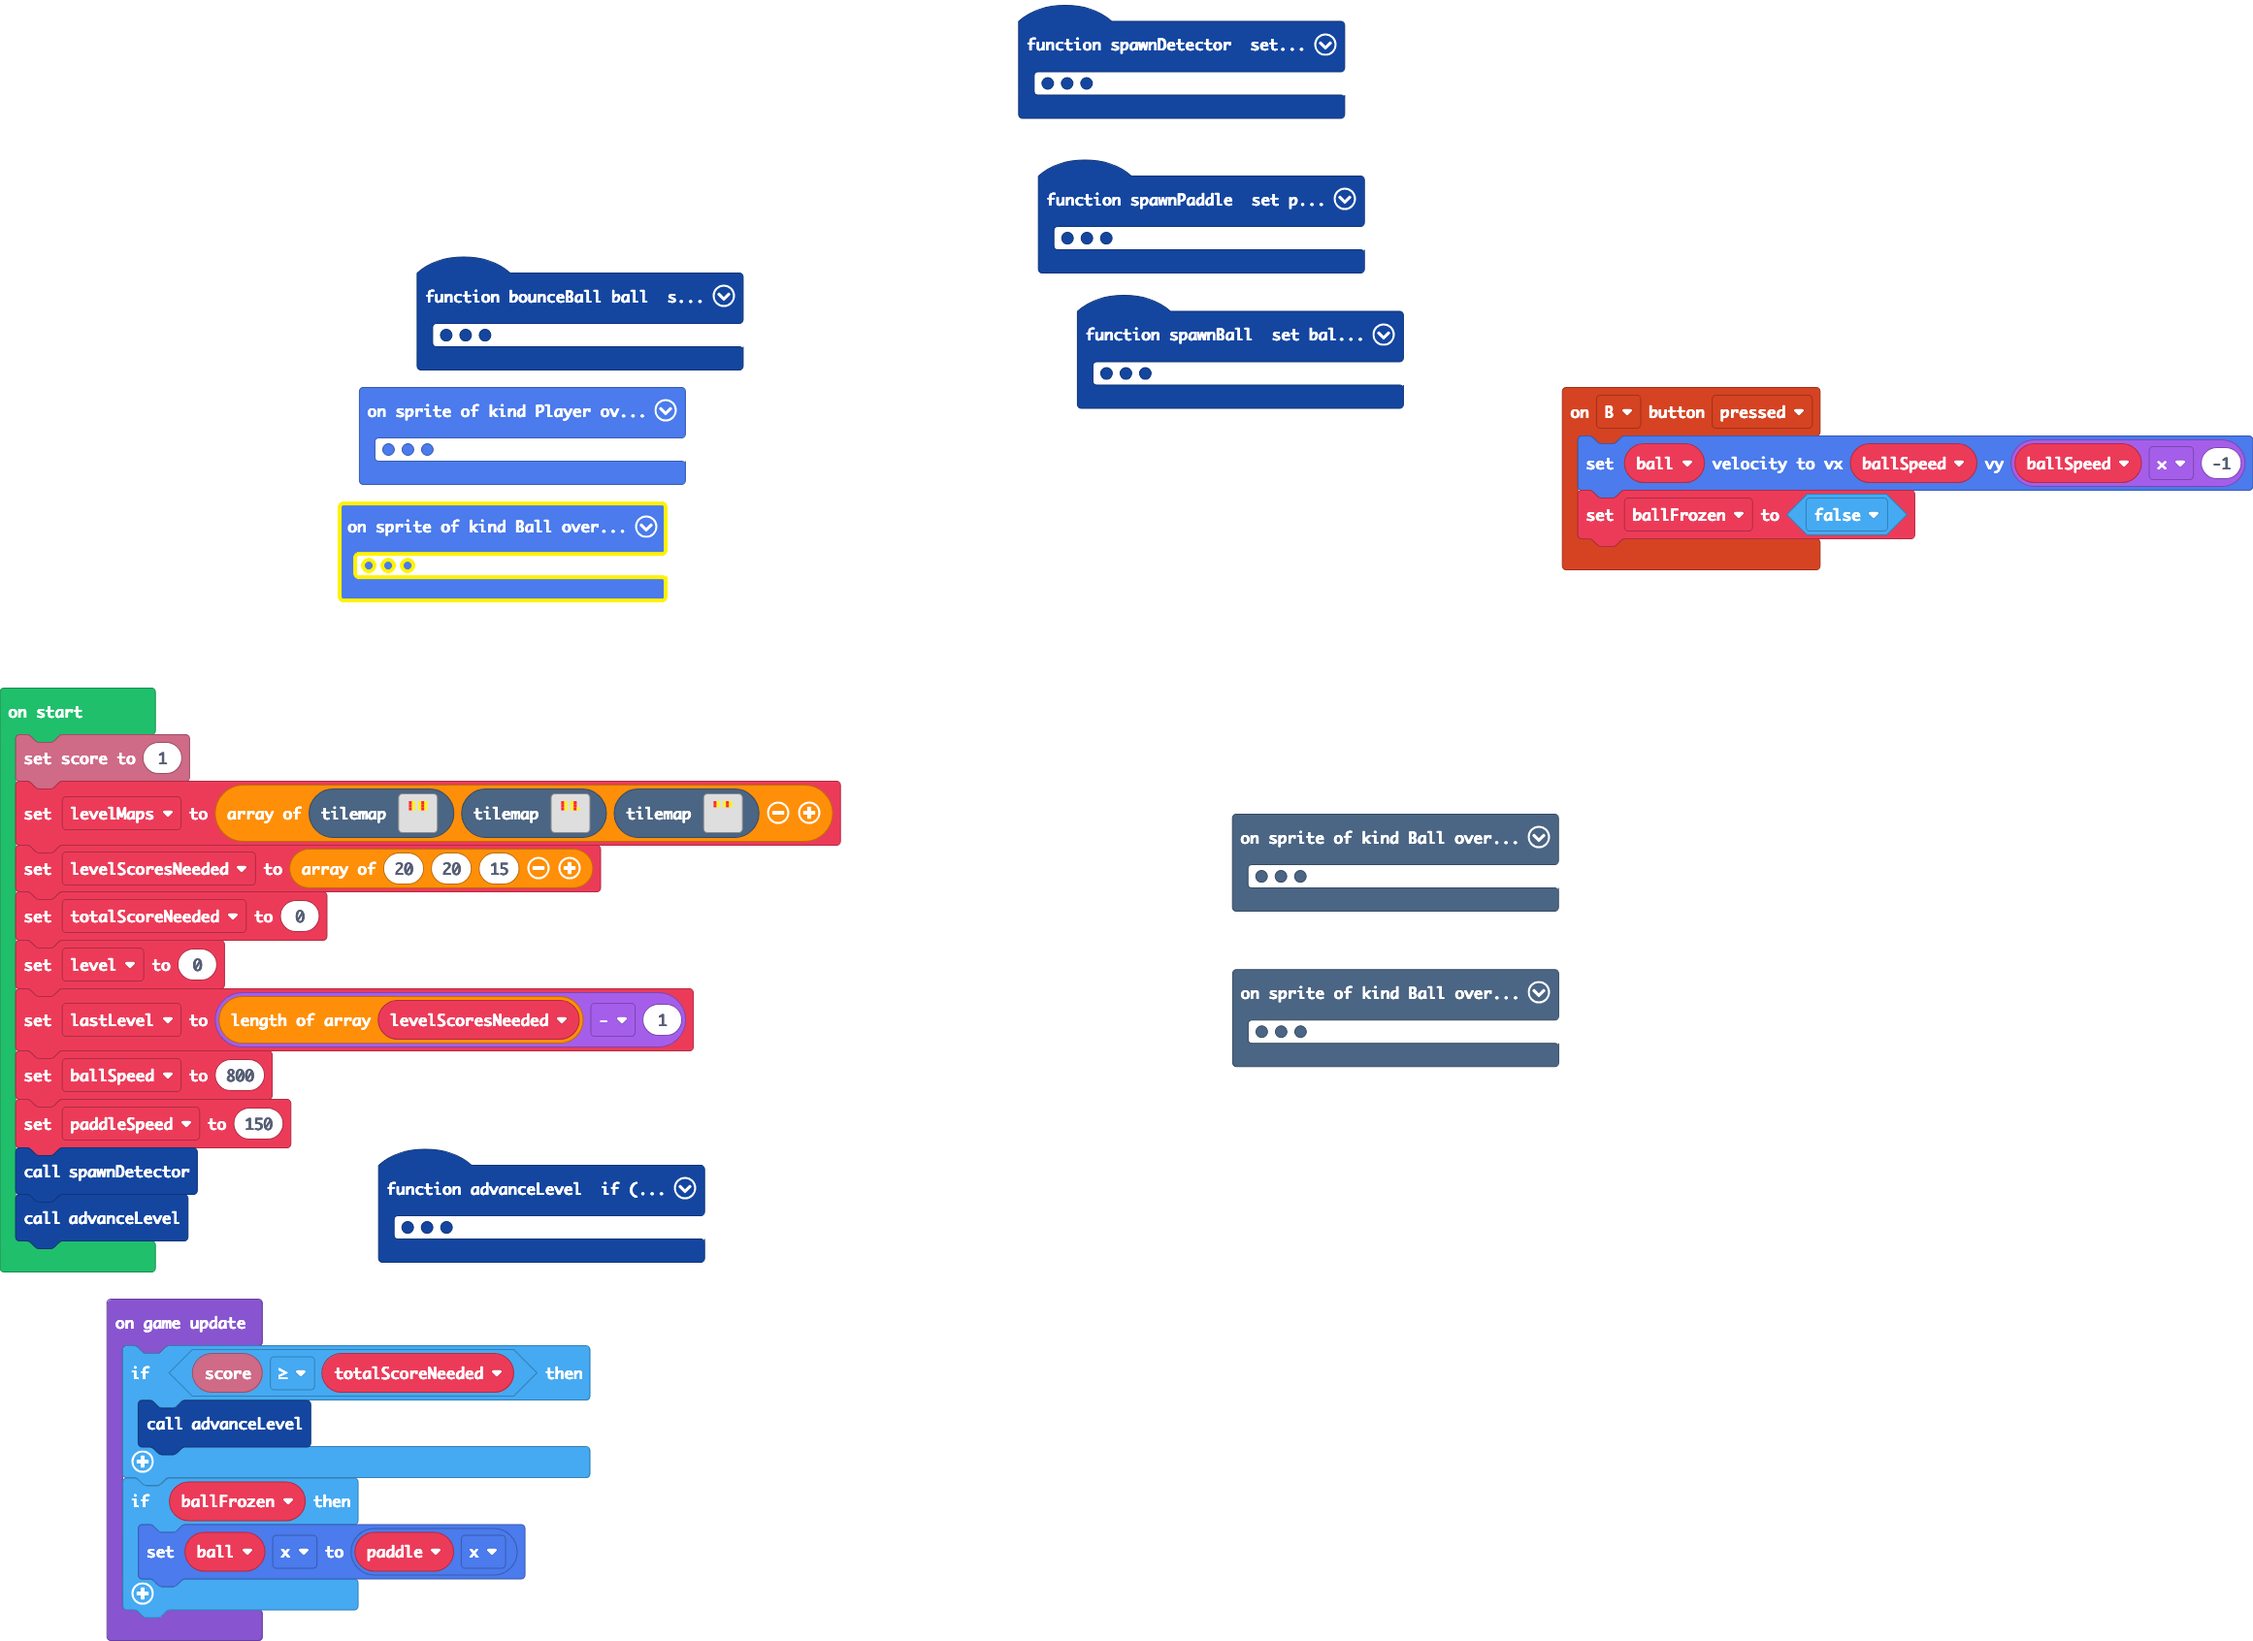
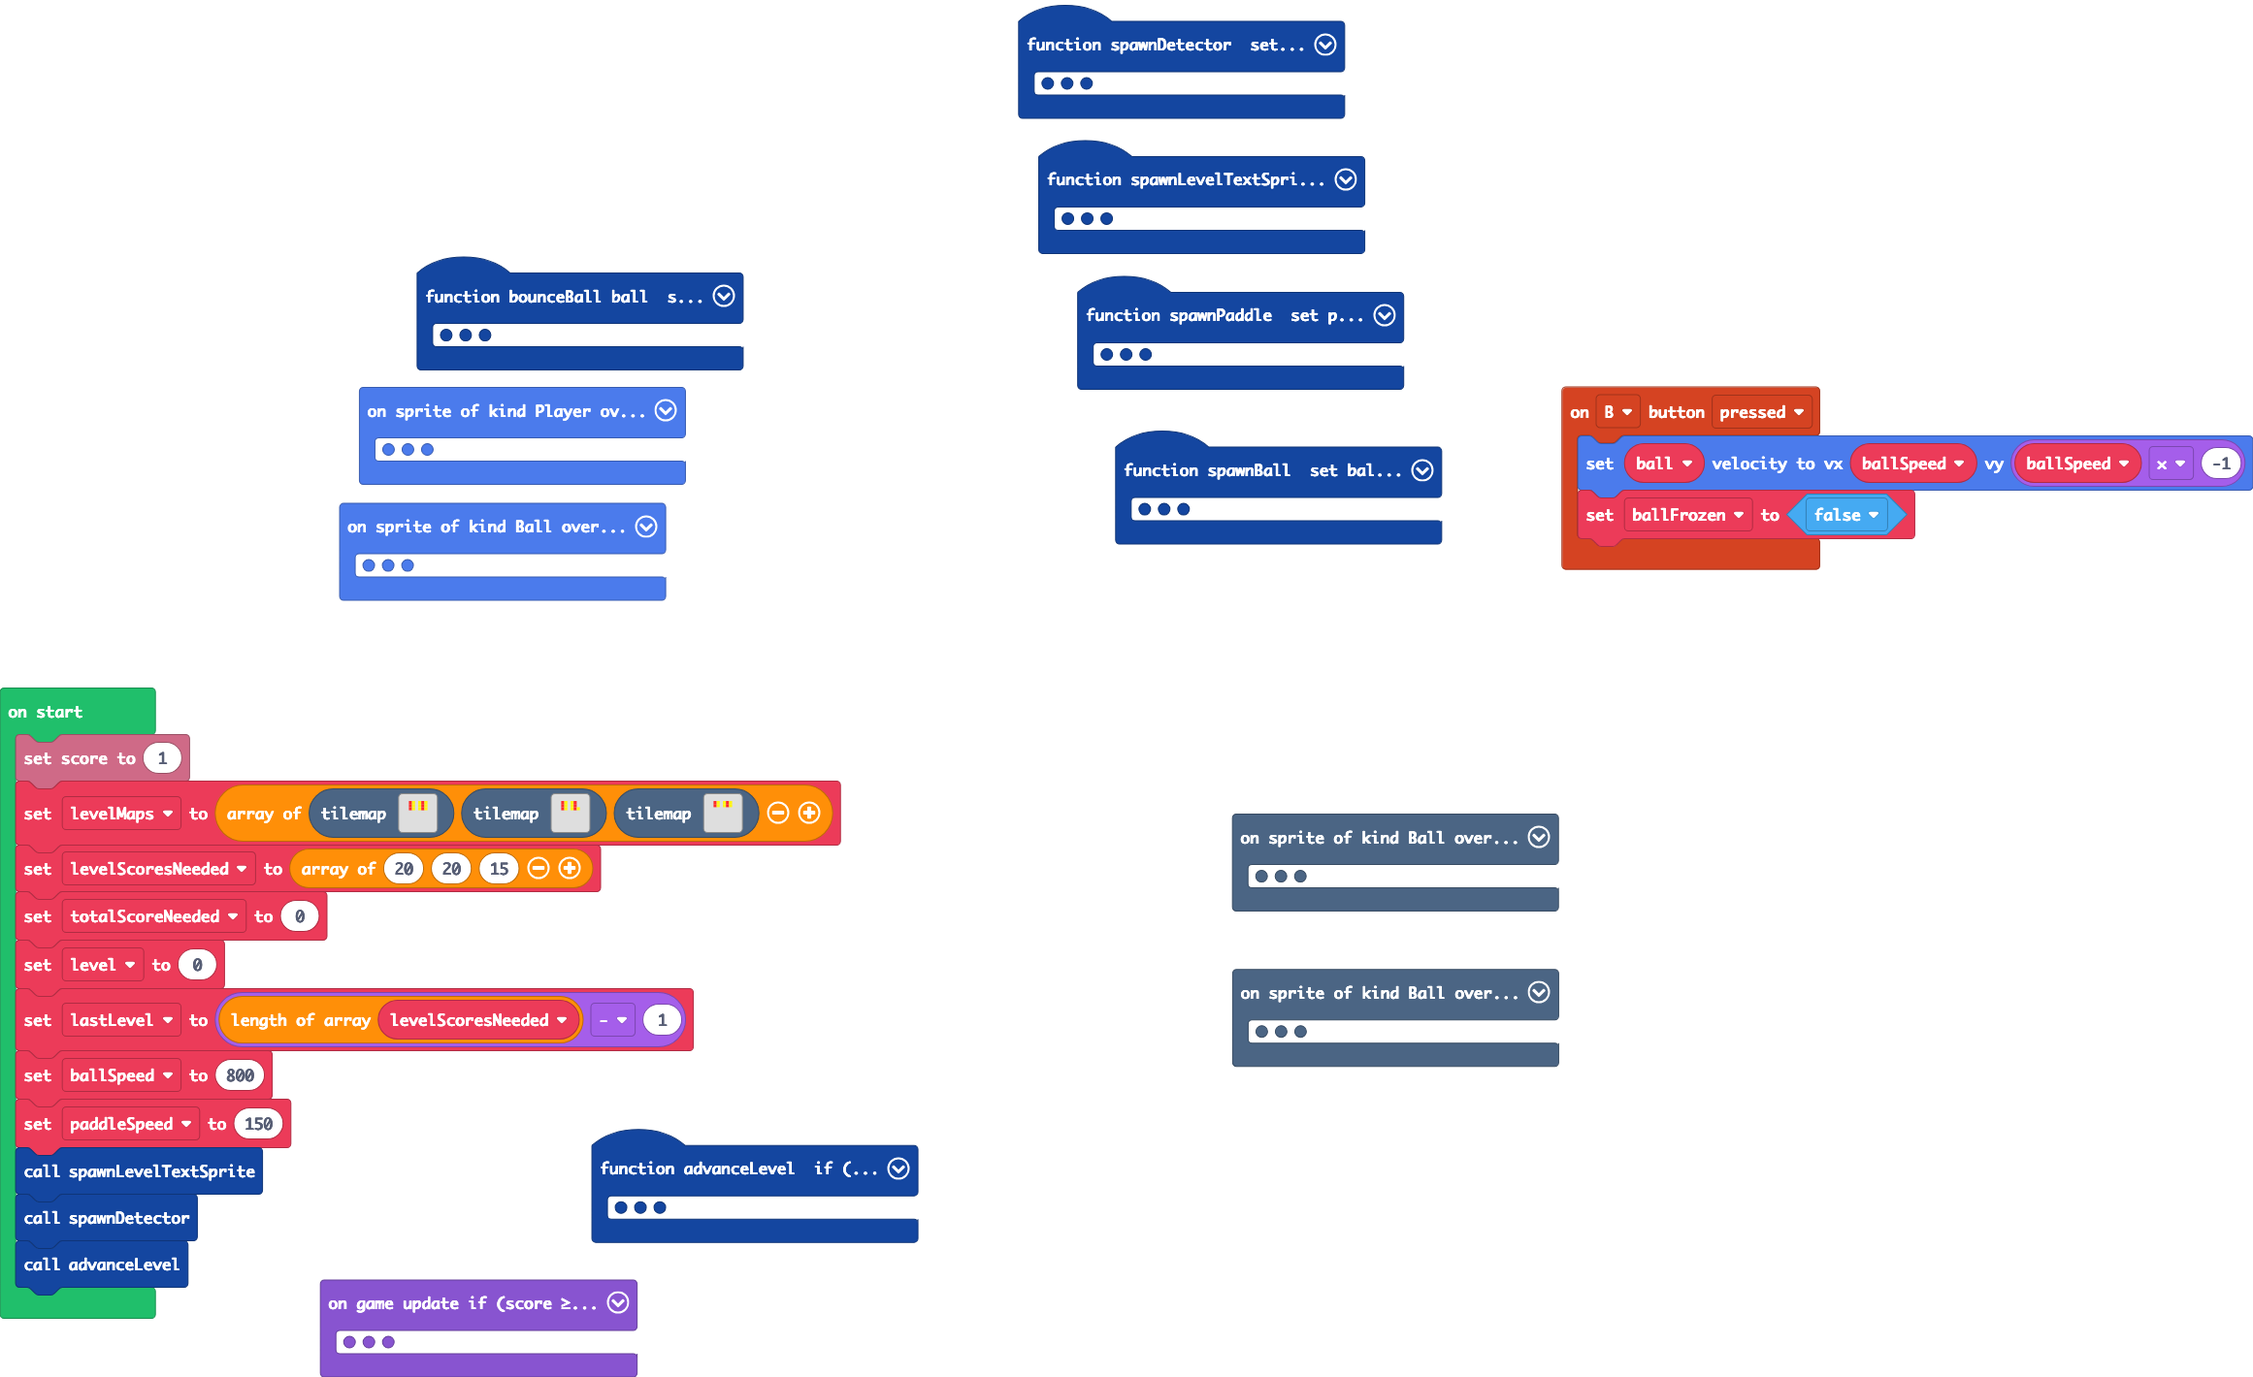
changed level display type

diff --git a/main.ts b/main.ts
@@ -1,6 +1,7 @@
 namespace SpriteKind {
     export const Ball = SpriteKind.create()
     export const Detector = SpriteKind.create()
+    export const Text = SpriteKind.create()
 }
 function advanceLevel () {
     if (level > lastLevel) {
@@ -9,7 +10,7 @@ function advanceLevel () {
         totalScoreNeeded += levelScoresNeeded[level]
         tiles.setCurrentTilemap(levelMaps[level])
         level += 1
-        game.splash("Level " + level)
+        levelTextSprite.sayText("Level " + level, 2000, false)
         sprites.destroyAllSpritesOfKind(SpriteKind.Ball)
         sprites.destroyAllSpritesOfKind(SpriteKind.Player)
         spawnPaddle()
@@ -22,9 +23,9 @@ controller.B.onEvent(ControllerButtonEvent.Pressed, function () {
 })
 function spawnDetector () {
     detector = sprites.create(img`
-        1111111111111111111111111111111111111111111111111111111111111111111111111111111111111111111111111111111111111111111111111111111111111111111111111111111111111111
-        1111111111111111111111111111111111111111111111111111111111111111111111111111111111111111111111111111111111111111111111111111111111111111111111111111111111111111
-        1111111111111111111111111111111111111111111111111111111111111111111111111111111111111111111111111111111111111111111111111111111111111111111111111111111111111111
+        ffffffffffffffffffffffffffffffffffffffffffffffffffffffffffffffffffffffffffffffffffffffffffffffffffffffffffffffffffffffffffffffffffffffffffffffffffffffffffffffff
+        ffffffffffffffffffffffffffffffffffffffffffffffffffffffffffffffffffffffffffffffffffffffffffffffffffffffffffffffffffffffffffffffffffffffffffffffffffffffffffffffff
+        ffffffffffffffffffffffffffffffffffffffffffffffffffffffffffffffffffffffffffffffffffffffffffffffffffffffffffffffffffffffffffffffffffffffffffffffffffffffffffffffff
         `, SpriteKind.Detector)
     detector.y = 120
 }
@@ -63,12 +64,18 @@ sprites.onOverlap(SpriteKind.Ball, SpriteKind.Detector, function (sprite, otherS
     info.changeLifeBy(-1)
     spawnBall()
 })
+function spawnLevelTextSprite () {
+    levelTextSprite = sprites.create(img`
+        f 
+        `, SpriteKind.Text)
+    levelTextSprite.y += 20
+}
 sprites.onOverlap(SpriteKind.Player, SpriteKind.Ball, function (sprite, otherSprite) {
     bounceBall(otherSprite)
     otherSprite.y = sprite.top - 1
 })
 function spawnPaddle () {
-    paddle = sprites.create(assets.image`normal paddle`, SpriteKind.Player)
+    paddle = sprites.create(assets.image`giant paddle`, SpriteKind.Player)
     paddle.setPosition(80, 107)
     controller.moveSprite(paddle, paddleSpeed, 0)
     paddle.setStayInScreen(true)
@@ -79,6 +86,7 @@ let paddle: Sprite = null
 let detector: Sprite = null
 let ballFrozen = false
 let ball: Sprite = null
+let levelTextSprite: Sprite = null
 let paddleSpeed = 0
 let ballSpeed = 0
 let lastLevel = 0
@@ -93,6 +101,7 @@ level = 0
 lastLevel = levelScoresNeeded.length - 1
 ballSpeed = 800
 paddleSpeed = 150
+spawnLevelTextSprite()
 spawnDetector()
 advanceLevel()
 game.onUpdate(function () {
